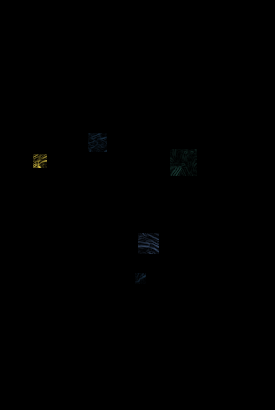
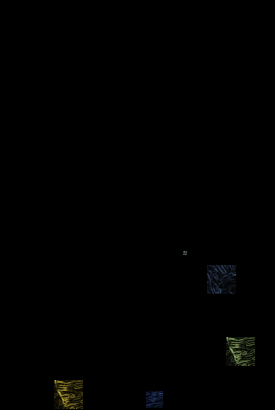
Evolution of palette and brushes + Debug tools

diff --git a/src/agent.py b/src/agent.py
@@ -85,11 +85,9 @@ class FoolPainterAgent(CreativeAgent):
         super().__init__(env)
 
         self.mem = ListMemory(10)
-        self.n = 2
+        self.n = 3
 
         self.innovation_freq = random.randint(1, 10) # How many steps goes after palette and brushes is updated.
-
-        print(self.innovation_freq)
 
         self.color_palette_size  = 25
         self.color_reference     = create_model(reference)
@@ -318,7 +316,7 @@ class FoolPainterAgent(CreativeAgent):
             # plt.draw()
             # plt.pause(0.001)
 
-            render_factor = 20
+            render_factor = 200
 
             if (self.env.age % render_factor == 0):
                 plt.savefig(PROJECT_ROOT + '/output/palettes/palette_ag' + self.name[-1] + '_steps_' + str(self.env.age - render_factor) + '_'+ str(self.env.age) + '.png')
@@ -344,8 +342,8 @@ class FoolPainterAgent(CreativeAgent):
         # logger.debug([a.obj for a in self.mem.artifacts])
         self.env.add_candidate(artifact)
 
-        # # Debug
-        # self.render_palette();
+        # Debug - Disable next line to not render palette images (output/palettes files)
+        self.render_palette();
 
 
 if __name__ == "__main__":

diff --git a/src/main.py b/src/main.py
@@ -16,7 +16,7 @@ if __name__ == "__main__":
     np.set_printoptions(threshold=np.nan)
 
     # Selects target image.
-    target_image = PROJECT_ROOT + "/media/mona_lisa.jpg"
+    target_image = PROJECT_ROOT + "/target/mona_lisa.jpg"
     inspiration_folder = PROJECT_ROOT + "/media/"
     output_folder = PROJECT_ROOT + "/output/result.png"
 
@@ -38,13 +38,13 @@ if __name__ == "__main__":
     env.init_canvas(target=target_image)
 
     # Initialize the agents
-    for i in range(3):
+    for i in range(4):
         reference_image = inspiration_folder + random.choice(os.listdir(inspiration_folder))
         fool = agent.FoolPainterAgent(env, reference=reference_image)
 
     # Run the simulation
     sim = Simulation(env, log_folder='./logs', callback=env.vote)
-    sim.async_steps(10)
+    sim.async_steps(8000)
     sim.end()
 
     # View the canvas
